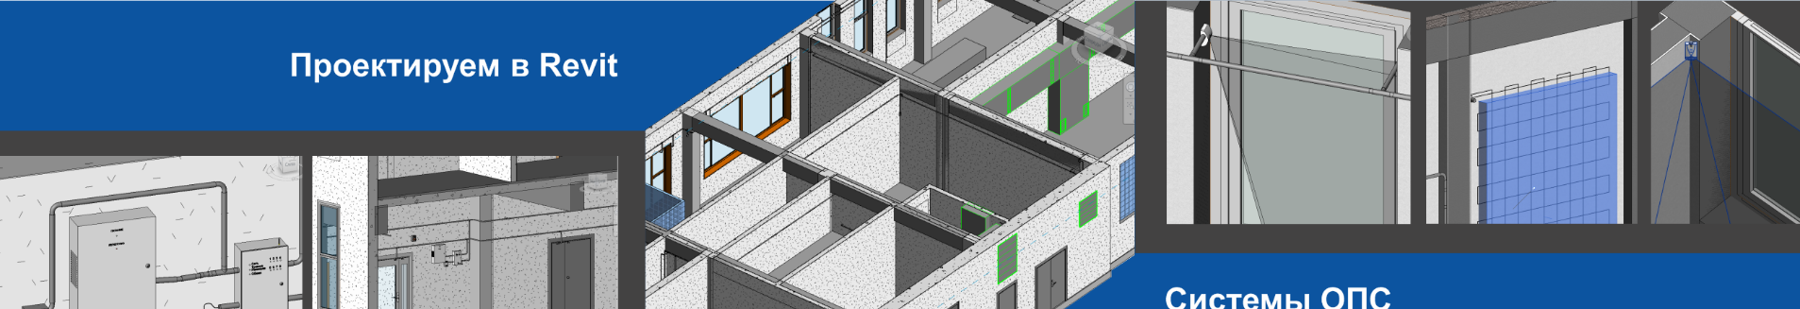
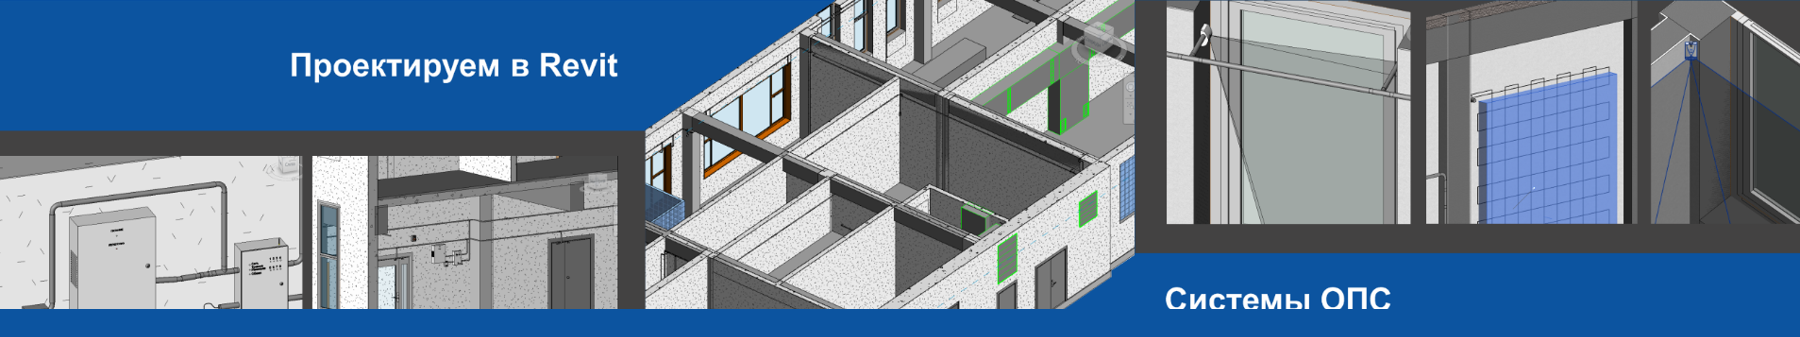
Слайд 4: подпись «Системы ОПС» не обрезана, лента кадров поднята

diff --git a/style.css b/style.css
@@ -245,3 +245,5 @@ strong { font-weight: 700; color: var(--navy); }
 .s4 h4 span { font-size: 22px; }
 .s4 .asm { font-size: 24px; padding: 18px 28px; }
 .s4 .asm { font-size: 22px; padding: 16px 28px; gap: 24px; }
+.gal4 { bottom: 60px; }
+.gal4 img { height: 140px; }
